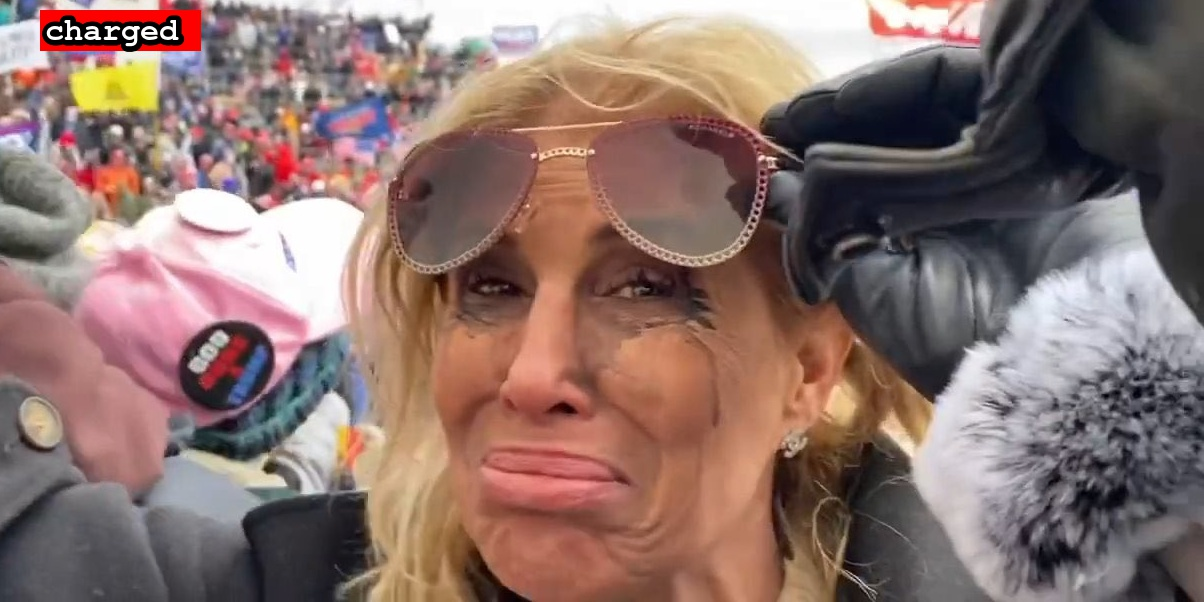
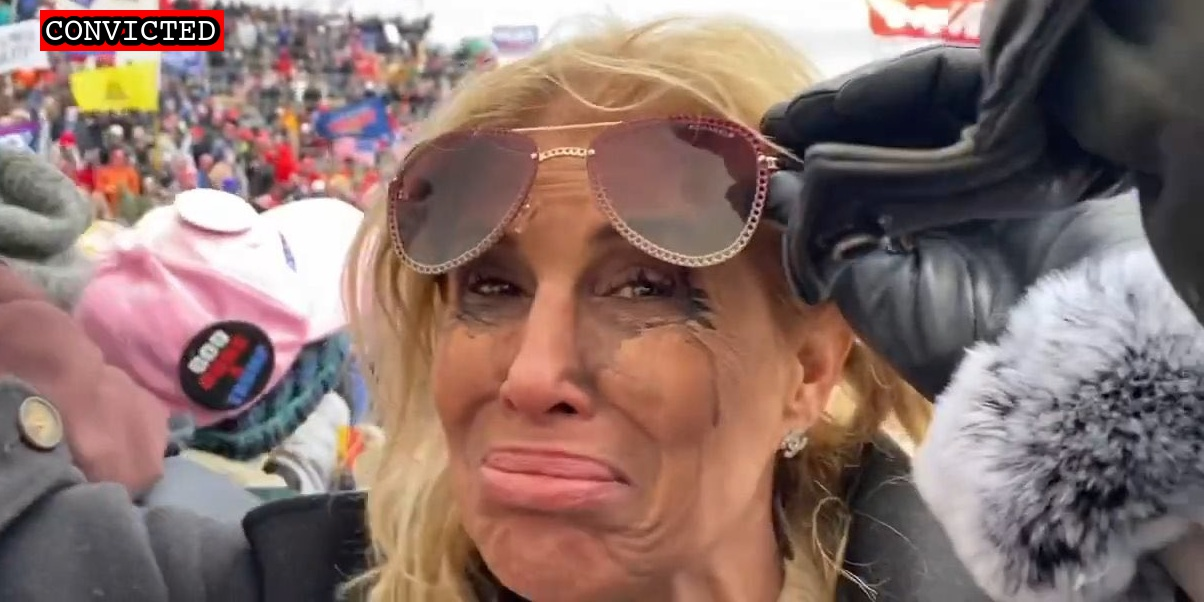
Bisignano plea

Changed region(s): [[0.0307, 0.0, 0.1844, 0.0897]]

diff --git a/docs/_suspects/gina-bisignano.md b/docs/_suspects/gina-bisignano.md
@@ -4,15 +4,15 @@ lastName: Bisignano
 hashtag: GinaBisignano
 aka:
 residence: California
-status: Indicted
+status: Convicted
 date: 2021-01-19
 charged: 2021-01-19
 indicted: 2021-01-29
-convicted:
+convicted: 2021-08-04
 sentenced:
 dismissed:
 deceased:
-plea_hearing:
+plea_hearing: 2021-08-04
 sentencing:
 age: 52
 occupation: Salon Owner
@@ -36,6 +36,7 @@ videos:
 charges:
 sentence:
 ---
+
 - [News Report](https://losangeles.cbslocal.com/2021/01/19/beverly-hills-salon-owner-gina-bisignano-2-others-arrested-for-capitol-riots/)
 - [Self Incrimination (Video)](https://twitter.com/waterspider__/status/1349422388396494850)
 - [FBI Statement (Twitter)](https://twitter.com/FBILosAngeles/status/1351604985210040326?s=20)
@@ -43,3 +44,4 @@ sentence:
 - [Complaint](https://www.justice.gov/opa/page/file/1356561/download)
 - [Indictment](https://www.justice.gov/opa/page/file/1362886/download)
 - [FBI Raid (Video)](https://losangeles.cbslocal.com/2021/01/19/beverly-hills-salon-owner-gina-bisignano-2-others-arrested-for-capitol-riots/)
+- [Plea Agreement](https://extremism.gwu.edu/sites/g/files/zaxdzs2191/f/Gina%20Bisignano%20Plea%20Agreement.pdf)
